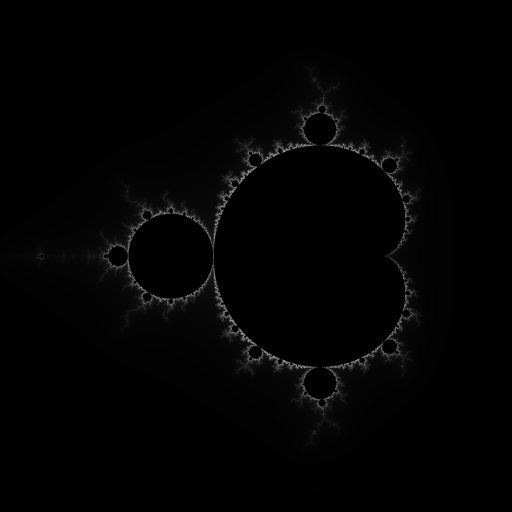
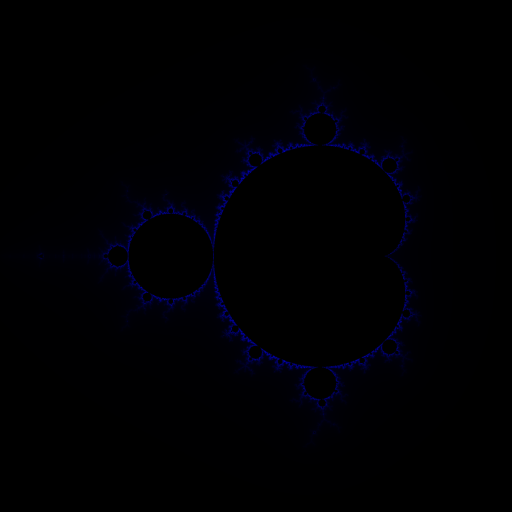
Support output of rgb images

diff --git a/src/main.rs b/src/main.rs
@@ -1,7 +1,7 @@
 use std::time::{Instant, Duration};
 use std::sync::Mutex;
 
-use image::{GrayImage, imageops::FilterType};
+use image::{GrayImage, RgbImage, imageops::FilterType};
 
 use clap::Clap;
 
@@ -34,6 +34,10 @@ struct Opts {
     /// Display a progress bar
     #[clap(long, short)]
     progress: bool,
+
+    /// Disable colour in output
+    #[clap(long)]
+    grayscale: bool,
 
     /// Center of image real part
     #[clap(default_value="-0.5")]
@@ -68,6 +72,7 @@ fn scale_convert(i: u32, imn: u32, imx: u32, omn: Float, omx: Float) -> Float {
 }
 
 const ESCAPE: Float = (1<<16) as Float;
+const IN_SET: Float = -1.0;
 
 /// Compute a particular pixel for the final image
 #[inline]
@@ -97,7 +102,7 @@ fn do_pixel(r: &Region, iterations: usize, img_x: u32, img_y: u32) -> f64 {
     }
 
     // Negative value signals point is in set
-    -1.0
+    IN_SET
 }
 
 /// Generate the image
@@ -115,17 +120,30 @@ where F: Fn() + Sync {
         .collect()
 }
 
-fn colour(generated: &[f64]) -> Vec<u8> {
+fn colour_l(generated: &[f64]) -> Vec<u8> {
     generated
         .iter()
         .map(|i| {
-            if *i == -1.0 {
+            if *i == IN_SET {
                 0
             } else {
                 *i as u8
             }
         })
         .collect()
+}
+
+fn colour_rgb(generated: &[f64]) -> Vec<u8> {
+    let mut out = Vec::with_capacity(generated.len() * 3);
+    for i in generated.iter() {
+        if *i == IN_SET {
+            out.extend(&[0, 0, 0])
+        } else {
+            let a = *i;
+            out.extend(&[0, 0, a as u8])
+        }
+    }
+    out
 }
 
 fn main() {
@@ -166,16 +184,42 @@ fn main() {
         );
     }
 
-    let pixels = colour(&generated);
-
     println!("Saving image...");
 
-    let img = GrayImage::from_vec(region.img_w, region.img_h, pixels).unwrap();
-    let img_ = image::imageops::resize(&img, opts.resolution, opts.resolution, FilterType::Triangle);
-    let result = img_.save(opts.output);
-    if let Err(e) = result {
-        println!("Failed to save image: {}", e);
-        std::process::exit(1);
+    if opts.grayscale {
+        let img = GrayImage::from_vec(
+            region.img_w,
+            region.img_h,
+            colour_l(&generated)
+        ).unwrap();
+        let img_ = image::imageops::resize(
+            &img,
+            opts.resolution,
+            opts.resolution,
+            FilterType::Triangle
+        );
+        let result = img_.save(opts.output);
+        if let Err(e) = result {
+            println!("Failed to save image: {}", e);
+            std::process::exit(1);
+        }
+    } else {
+        let img = RgbImage::from_vec(
+            region.img_w,
+            region.img_h,
+            colour_rgb(&generated)
+        ).unwrap();
+        let img_ = image::imageops::resize(
+            &img,
+            opts.resolution,
+            opts.resolution,
+            FilterType::Triangle
+        );
+        let result = img_.save(opts.output);
+        if let Err(e) = result {
+            println!("Failed to save image: {}", e);
+            std::process::exit(1);
+        }
     }
 
     println!("Done.");
